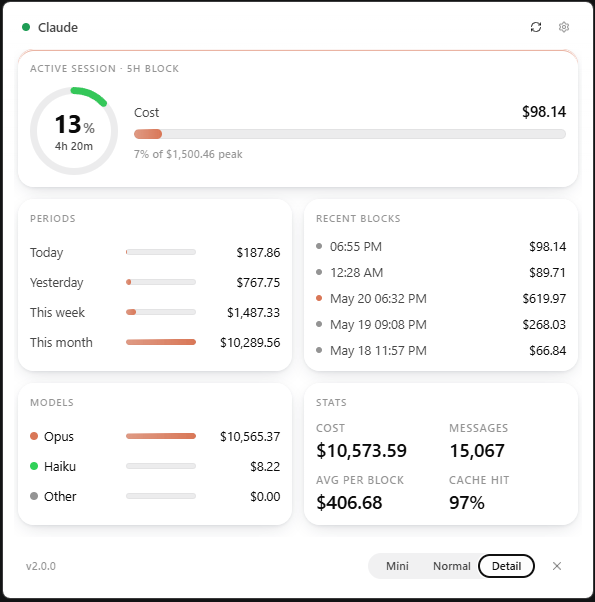
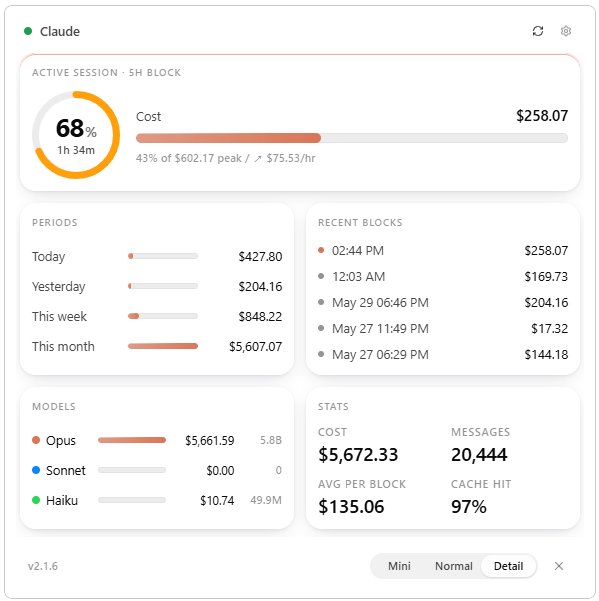
docs: 스크린샷 3종 갱신 (v2.1.x UI) + mini 표시 width 240px 로 축소
새 스크린샷 dimension: mini 246×117 / normal 325×365 / detail 599×601 —
모두 현재 모드 default 사이즈 (240×112 / 320×360 / 592×619) 와 거의 일치.

이전 README 에서 mini 만 표시 width=320 으로 원본보다 컸어서 확대
픽셀 흐림 가능 — 240 으로 줄여 1:1 표시. normal/detail 은 표시 width
(280/420) 가 원본보다 작아 그대로 유지.

diff --git a/README.ko.md b/README.ko.md
@@ -82,7 +82,7 @@ Settings → "로그 폴더 열기" 버튼이 `widget.log`를 보여줌. 모든 
   <img src="docs/screenshots/detail.png" alt="Detail 모드" width="420" />
 </p>
 <p align="center">
-  <img src="docs/screenshots/mini.png" alt="Mini 모드" width="320" />
+  <img src="docs/screenshots/mini.png" alt="Mini 모드" width="240" />
 </p>
 
 > ⚠️ 본 위젯은 Claude Code의 OAuth 사용량 엔드포인트를 호출합니다. Anthropic 측에서 해당 엔드포인트가 변경되거나 정책이 바뀔 경우 동작이 멈출 수 있습니다.

diff --git a/README.md b/README.md
@@ -82,7 +82,7 @@ Settings → "Open logs folder" reveals `widget.log` with timestamped entries fo
   <img src="docs/screenshots/detail.png" alt="Detail mode" width="420" />
 </p>
 <p align="center">
-  <img src="docs/screenshots/mini.png" alt="Mini mode" width="320" />
+  <img src="docs/screenshots/mini.png" alt="Mini mode" width="240" />
 </p>
 
 > ⚠️ The widget calls Claude Code's OAuth usage endpoint. If Anthropic changes the endpoint or policy, the widget may stop working until updated.